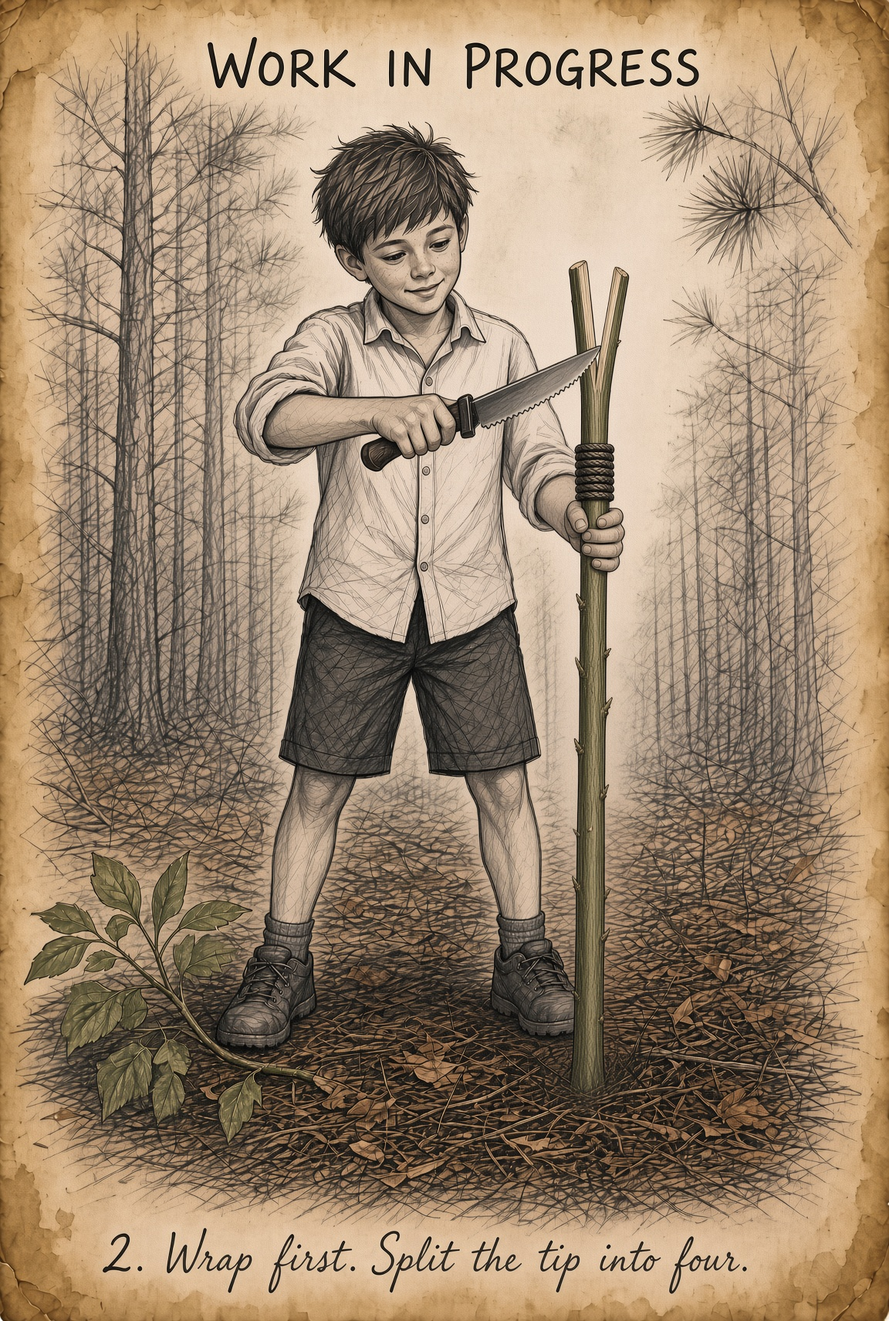
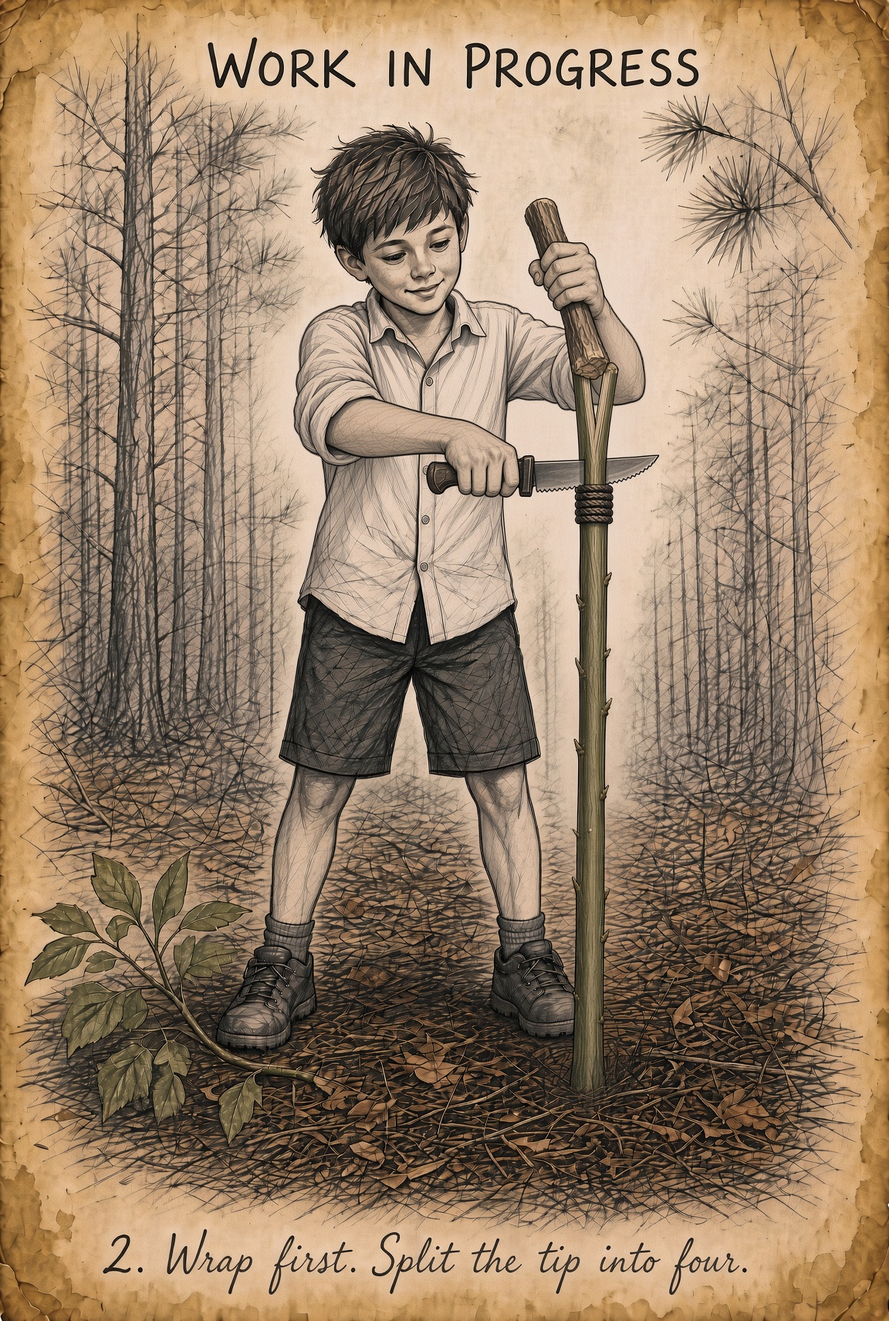
Draft: Chritty spear step-2 sketch (wrap first, split tip)

diff --git a/public/columns/chrittys-bushcraft/four-point-spear.html b/public/columns/chrittys-bushcraft/four-point-spear.html
@@ -73,8 +73,8 @@
           <li>
             <p><strong>Split an X.</strong> Baton a split down the center to the wrap. Turn 90 degrees. Split again. Four even quarters.</p>
             <figure class="column-figure">
-              <img src="../../assets/columns/chrittys-bushcraft/four-point-spear/02-bind-and-split.jpg" alt="Cord wrap on the shaft with the tip split into quarters" width="1152" height="1712" loading="lazy" />
-              <figcaption>Wrap first. Split the tip</figcaption>
+              <img src="../../assets/columns/chrittys-bushcraft/four-point-spear/02-bind-and-split.jpg" alt="Bushcraft sketch: wrap the shaft first, then baton-split the tip into four" width="1152" height="1712" loading="lazy" />
+              <figcaption>2. Wrap first. Split the tip into four.</figcaption>
             </figure>
           </li>
           <li>

diff --git a/src/columns/chrittys-bushcraft/four-point-spear.html b/src/columns/chrittys-bushcraft/four-point-spear.html
@@ -73,8 +73,8 @@
           <li>
             <p><strong>Split an X.</strong> Baton a split down the center to the wrap. Turn 90 degrees. Split again. Four even quarters.</p>
             <figure class="column-figure">
-              <img src="../../assets/columns/chrittys-bushcraft/four-point-spear/02-bind-and-split.jpg" alt="Cord wrap on the shaft with the tip split into quarters" width="1152" height="1712" loading="lazy" />
-              <figcaption>Wrap first. Split the tip</figcaption>
+              <img src="../../assets/columns/chrittys-bushcraft/four-point-spear/02-bind-and-split.jpg" alt="Bushcraft sketch: wrap the shaft first, then baton-split the tip into four" width="1152" height="1712" loading="lazy" />
+              <figcaption>2. Wrap first. Split the tip into four.</figcaption>
             </figure>
           </li>
           <li>
